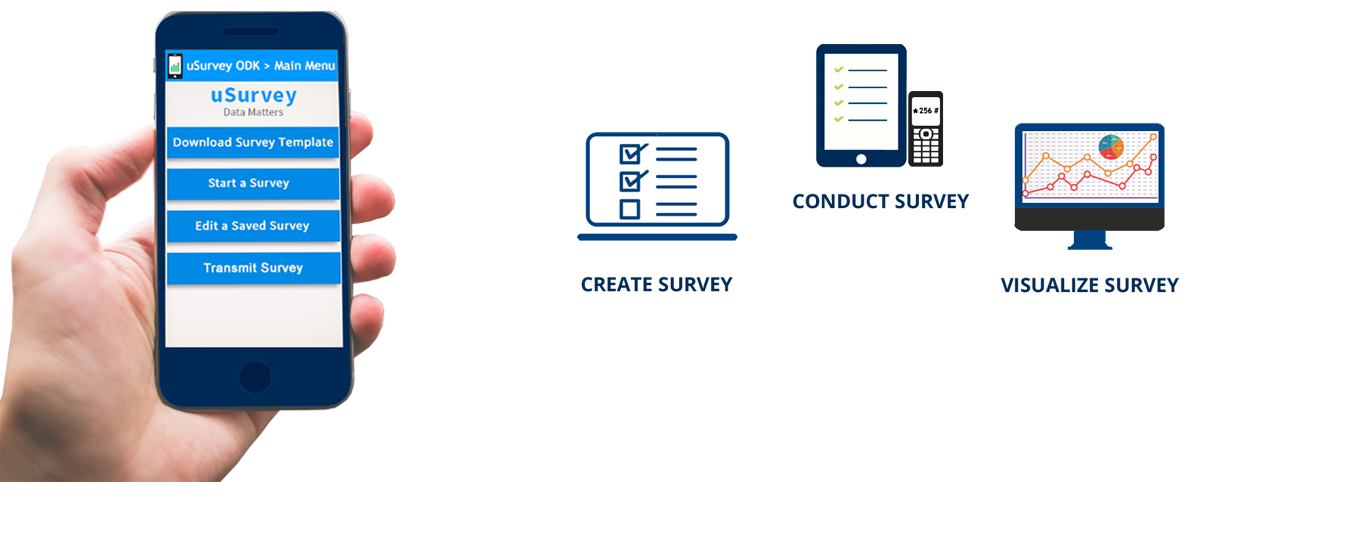
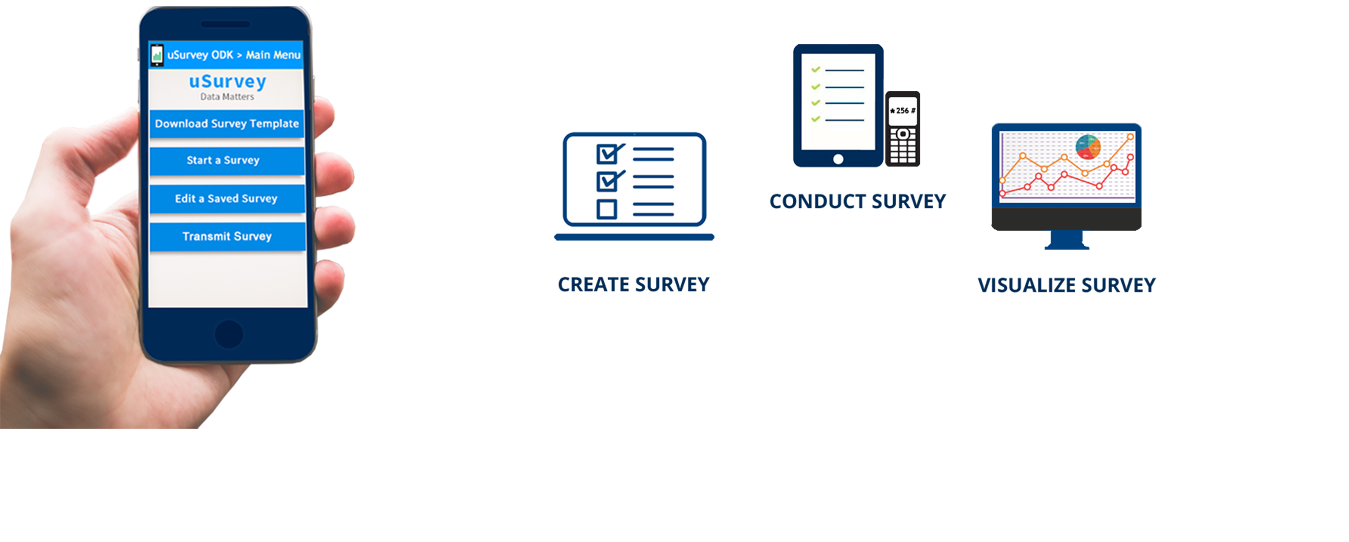
For Menu responsive in custom sizes and IPad and Ipad pro

diff --git a/survey/static/toassets/contentsty.css b/survey/static/toassets/contentsty.css
@@ -74,7 +74,7 @@ img {
 header ul,footer ul,.top-bar ul,.lft-tools ul,.post-info ul,.recent-posts-widget ul,.center-v-menu ul,.pricing-tbl ul,.sidebar ul,ul.details,ul.comment-list,ul.list,.w-recent-posts ul{
 	list-style: outside none none;
     margin: 0;
-    padding: 29px 0 0;
+    /*padding: 29px 0 0;*/
 }
 .header-1 .top-nav > ul > li > a > span:before,.skew-nav > ul > li > a > span:before,.icon-box-1 .box-number span:after,.post-item .post-image:after,.post-item .lft-tools:before,.p-style2 figure:after,.p-style3 figure:after,.team-box.box-1 .team-img span,.rect-angles:before,
 .rect-angles:after,.rect-angles span:before,.rect-angles span:after,.team-box.box-1 .team-socials:after,.header-2 .top-nav > ul > li > a:before,.icon-bg:after,.icon-border:after,.steps-2 .step-title:after,.steps-4 .step-line:before{

diff --git a/survey/static/toassets/menstyle.css b/survey/static/toassets/menstyle.css
@@ -64,7 +64,7 @@ nav{position:relative;width:980px;margin:0 auto;}
 #cssmenu ul ul ul li.active a{border-left:1px solid #333}
 #cssmenu > ul > li.has-sub > ul > li.active > a,#cssmenu > ul ul > li.has-sub > ul > li.active> a{border-top:1px solid #333}
 
-@media screen and (max-width:700px){
+@media screen and (max-width:1024px){
 .logo{top:0;left: 0;width:100%;height:46px;text-align:center;padding:10px 0 0 0 ;float:none}
 .logo2{display:none}
 nav{width:100%;}

diff --git a/survey/static/toassets/menjs.js b/survey/static/toassets/menjs.js
@@ -35,7 +35,7 @@ multiTg = function() {
    else cssmenu.addClass('dropdown');
    if (settings.sticky === true) cssmenu.css('position', 'fixed');
 resizeFix = function() {
-  var mediasize = 700;
+  var mediasize = 1024;
      if ($( window ).width() > mediasize) {
        cssmenu.find('ul').show();
      }

diff --git a/survey/static/toassets/responsive.css b/survey/static/toassets/responsive.css
@@ -381,7 +381,7 @@ This is only usurvey
         height: inherit;
         position: relative;
         top: 0;
-        padding-top: 40px;
+        /*padding-top: 40px;*/
     }
     .logo {
         float: none !important;
